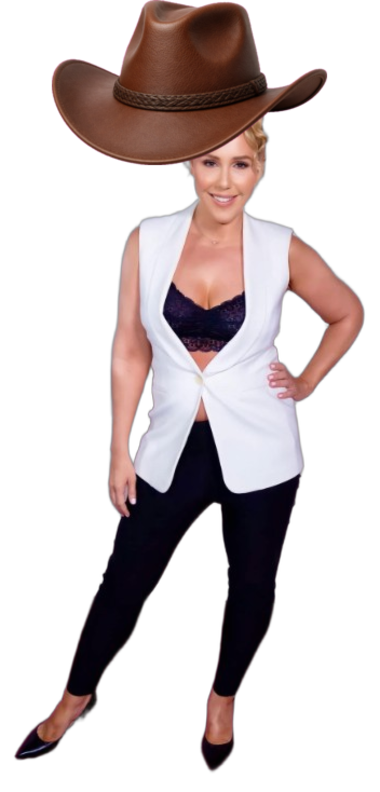
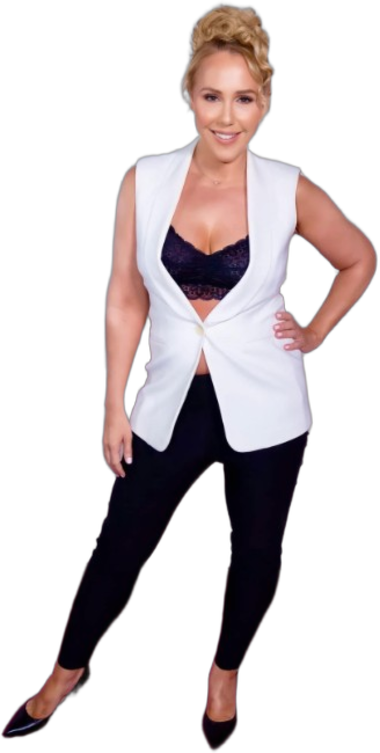
Drop Holly's hat, float hearts instead of bubbles, and add an occasional wink.

Changed region(s): [[0.0, 0.0, 1.0, 1.0], [0.2605, 0.7942, 0.3474, 0.8552]]

diff --git a/app/globals.css b/app/globals.css
@@ -591,6 +591,10 @@ a.ranch-btn:hover {
   animation: holly-flip 14s ease-in-out infinite;
 }
 
+.holly-wink-wrap {
+  position: relative;
+}
+
 .holly-figure {
   display: block;
   width: 100%;
@@ -598,74 +602,74 @@ a.ranch-btn:hover {
   filter: drop-shadow(2px 3px 0 rgba(18, 6, 31, 0.42));
 }
 
-.holly-bubbles {
+.holly-wink {
+  position: absolute;
+  inset: 0;
+  opacity: 0;
+  animation: holly-wink 8.5s infinite;
+}
+
+.holly-hearts {
   position: absolute;
   inset: -1.5rem 0 18% 0;
   overflow: visible;
 }
 
-.holly-bubble {
+.holly-heart {
   position: absolute;
   bottom: 8%;
-  border-radius: 50%;
-  border: 1.5px solid rgba(255, 255, 255, 0.8);
-  background:
-    radial-gradient(circle at 32% 28%, #fff 0 14%, transparent 18%),
-    radial-gradient(circle at 70% 72%, #7ec8ff44, #ffffff18 55%, #7ec8ff33);
-  box-shadow: inset -1px -1px 0 #ffffff55;
-  animation: holly-bubble 6s ease-in infinite;
+  color: #ff2d6a;
+  font-size: 0.85rem;
+  line-height: 1;
+  text-shadow: 0 1px 0 #3d1f0a66;
+  animation: holly-heart 6s ease-in infinite;
 }
 
-.holly-bubble:nth-child(1) {
+.holly-heart:nth-child(1) {
   left: 10%;
-  width: 0.55rem;
-  height: 0.55rem;
+  font-size: 0.7rem;
 }
 
-.holly-bubble:nth-child(2) {
+.holly-heart:nth-child(2) {
   left: 38%;
-  width: 0.85rem;
-  height: 0.85rem;
+  font-size: 1.05rem;
   animation-delay: 0.9s;
   animation-duration: 6.8s;
 }
 
-.holly-bubble:nth-child(3) {
+.holly-heart:nth-child(3) {
   left: 62%;
-  width: 0.45rem;
-  height: 0.45rem;
+  font-size: 0.6rem;
   animation-delay: 1.7s;
   animation-duration: 5.4s;
 }
 
-.holly-bubble:nth-child(4) {
+.holly-heart:nth-child(4) {
   left: 22%;
-  width: 0.7rem;
-  height: 0.7rem;
+  font-size: 0.9rem;
   animation-delay: 2.6s;
 }
 
-.holly-bubble:nth-child(5) {
+.holly-heart:nth-child(5) {
   left: 78%;
-  width: 0.95rem;
-  height: 0.95rem;
+  font-size: 1.15rem;
   animation-delay: 3.4s;
   animation-duration: 7.2s;
+  color: #ff4d8d;
 }
 
-.holly-bubble:nth-child(6) {
+.holly-heart:nth-child(6) {
   left: 48%;
-  width: 0.4rem;
-  height: 0.4rem;
+  font-size: 0.55rem;
   animation-delay: 4.1s;
   animation-duration: 5.8s;
 }
 
-.holly-bubble:nth-child(7) {
+.holly-heart:nth-child(7) {
   left: 4%;
-  width: 0.6rem;
-  height: 0.6rem;
+  font-size: 0.8rem;
   animation-delay: 5s;
+  color: #ff0044;
 }
 
 @media (min-width: 40rem) {
@@ -770,7 +774,7 @@ a.ranch-btn:hover {
   }
 }
 
-@keyframes holly-bubble {
+@keyframes holly-heart {
   0% {
     transform: translate3d(0, 0, 0) scale(0.45);
     opacity: 0;
@@ -781,6 +785,19 @@ a.ranch-btn:hover {
   100% {
     transform: translate3d(0.7rem, -15rem, 0) scale(1.2);
     opacity: 0;
+  }
+}
+
+@keyframes holly-wink {
+  0%,
+  86%,
+  90%,
+  100% {
+    opacity: 0;
+  }
+  87%,
+  89% {
+    opacity: 1;
   }
 }
 
@@ -797,7 +814,8 @@ a.ranch-btn:hover {
   .tumbleweed-spin,
   .sparkle,
   .holly-flip,
-  .holly-bubble {
+  .holly-heart,
+  .holly-wink {
     animation: none;
   }
 }

diff --git a/app/holly-ranch.tsx b/app/holly-ranch.tsx
@@ -1,21 +1,32 @@
-const BUBBLES = [1, 2, 3, 4, 5, 6, 7] as const;
+const HEARTS = [1, 2, 3, 4, 5, 6, 7] as const;
 
 export function HollyRanch() {
   return (
     <div className="holly-ranch" aria-hidden>
-      <div className="holly-bubbles">
-        {BUBBLES.map((bubble) => (
-          <span className="holly-bubble" key={bubble} />
+      <div className="holly-hearts">
+        {HEARTS.map((heart) => (
+          <span className="holly-heart" key={heart}>
+            ♥
+          </span>
         ))}
       </div>
       <div className="holly-flip">
-        <img
-          alt=""
-          className="holly-figure"
-          height={792}
-          src="/holly-cowgirl.png"
-          width={380}
-        />
+        <div className="holly-wink-wrap">
+          <img
+            alt=""
+            className="holly-figure"
+            height={753}
+            src="/holly-cowgirl.png"
+            width={380}
+          />
+          <img
+            alt=""
+            className="holly-figure holly-wink"
+            height={753}
+            src="/holly-wink.png"
+            width={380}
+          />
+        </div>
       </div>
     </div>
   );
